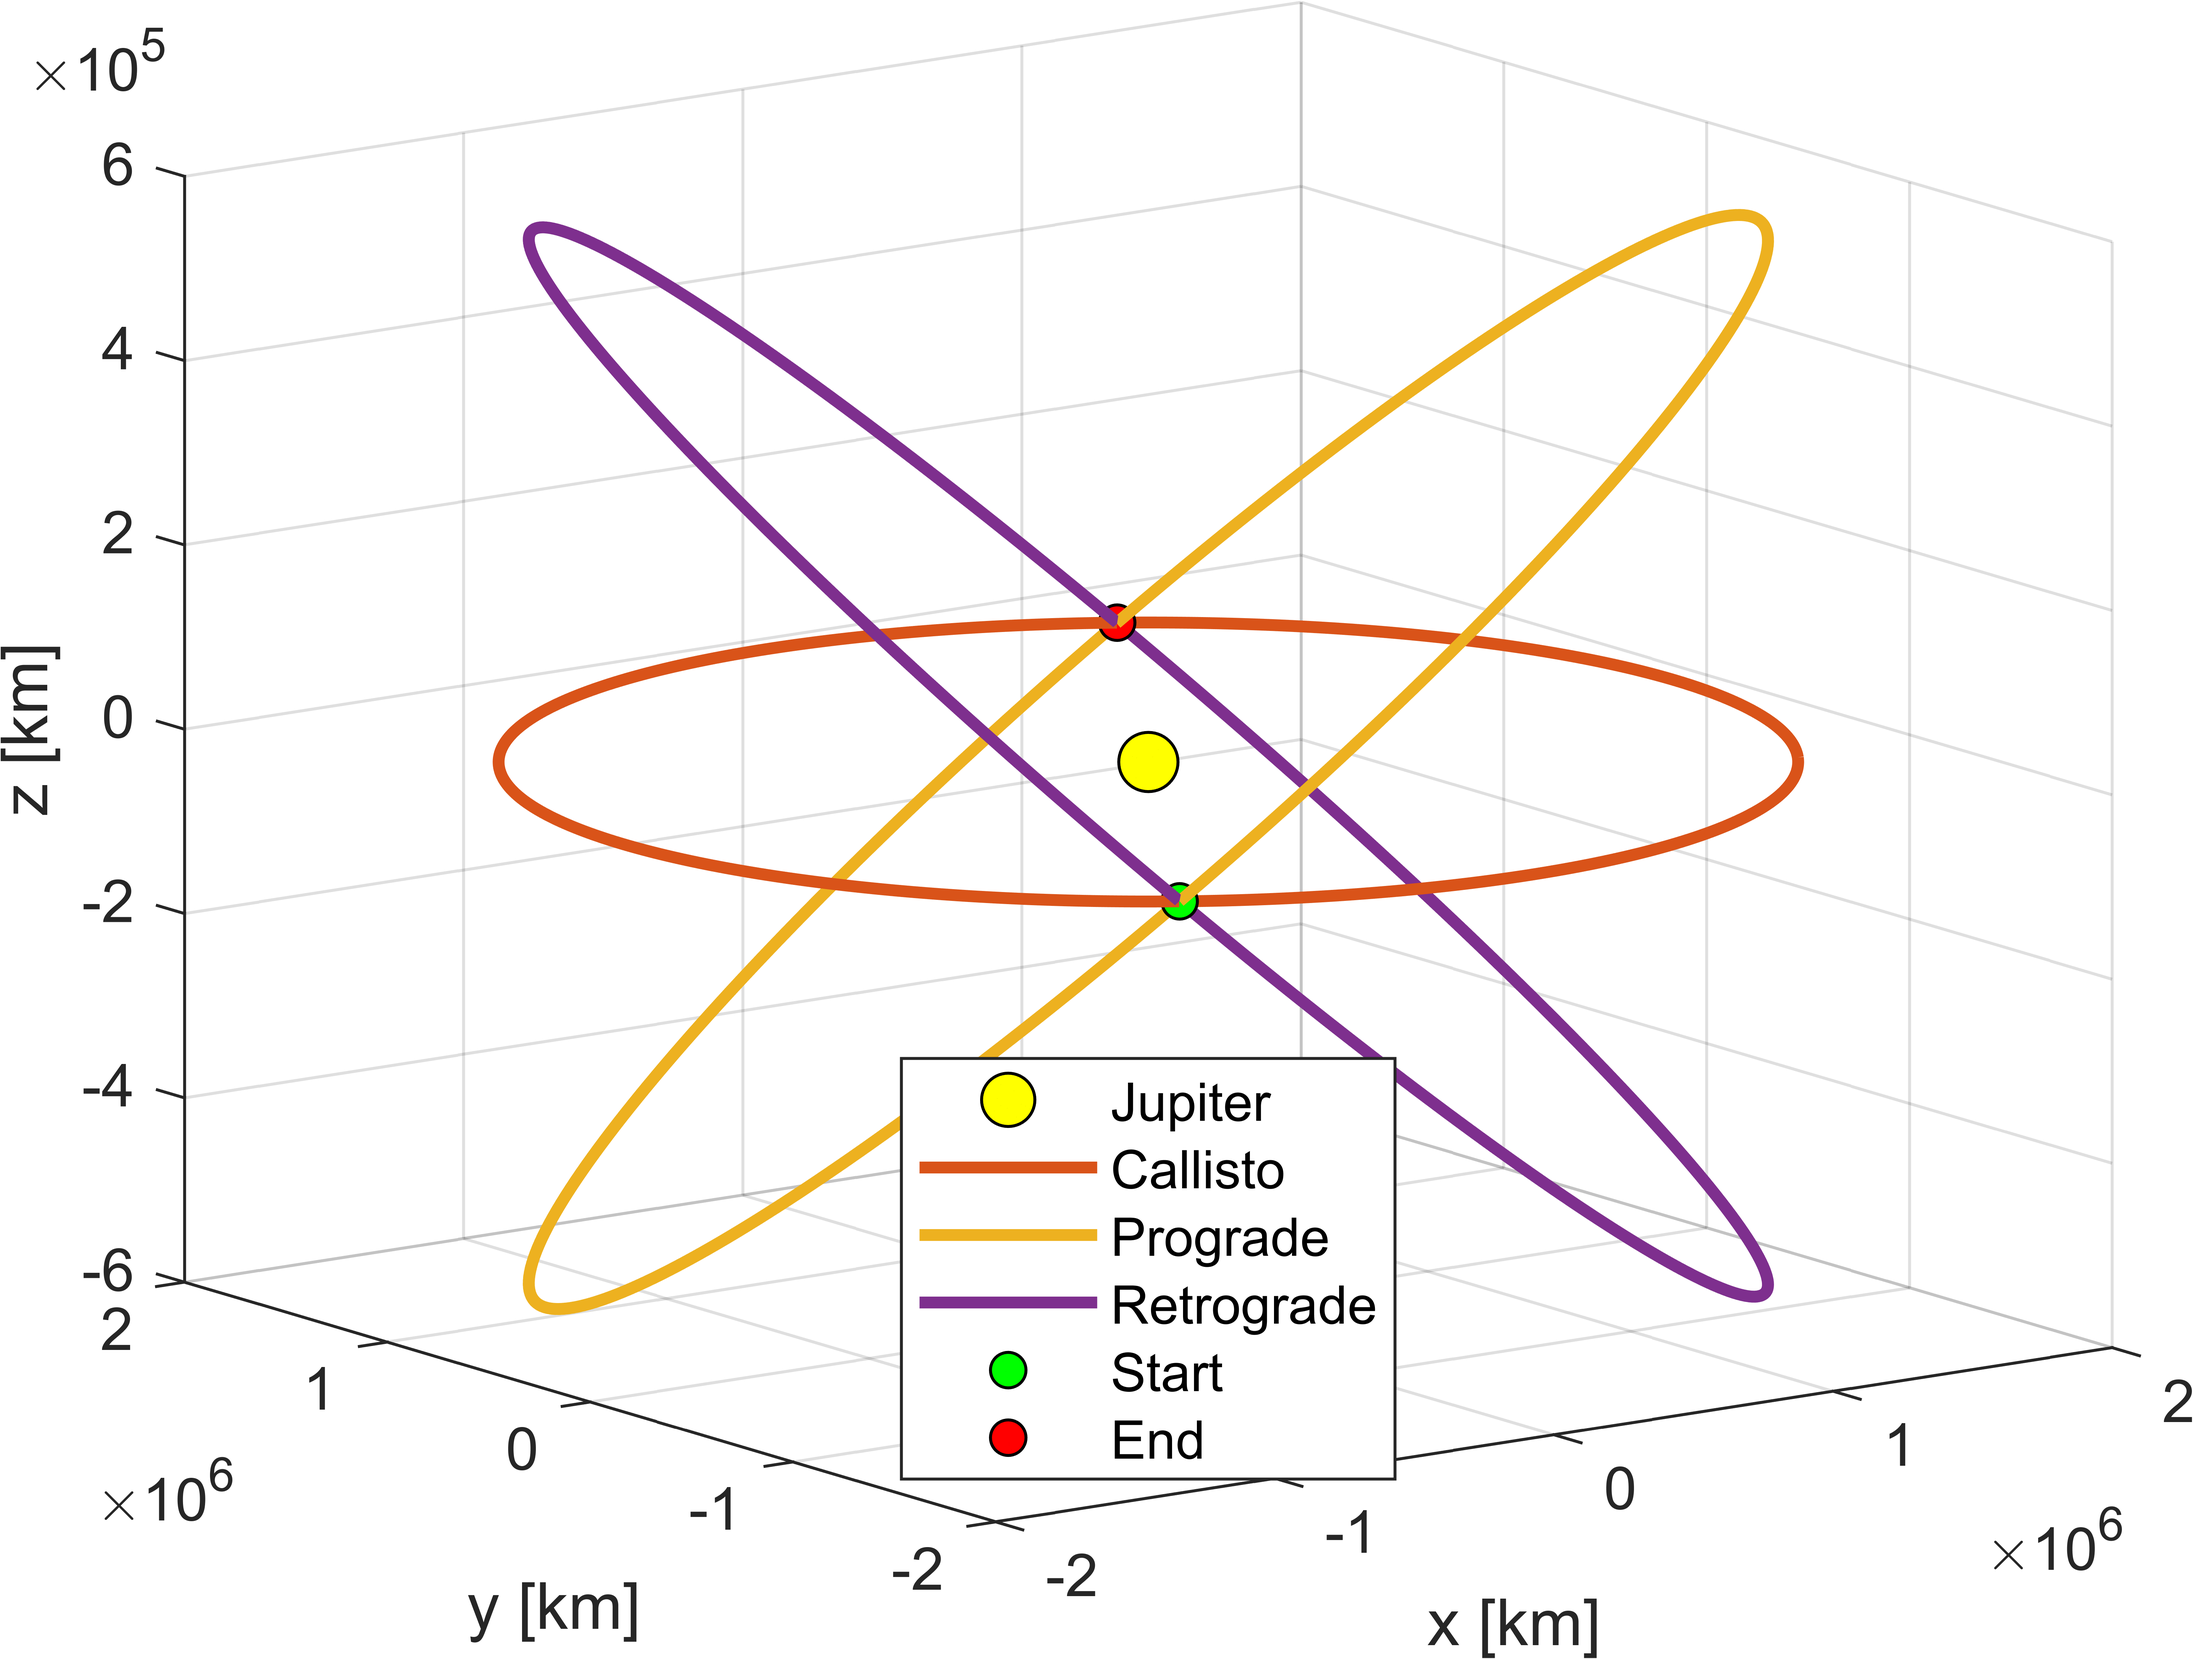
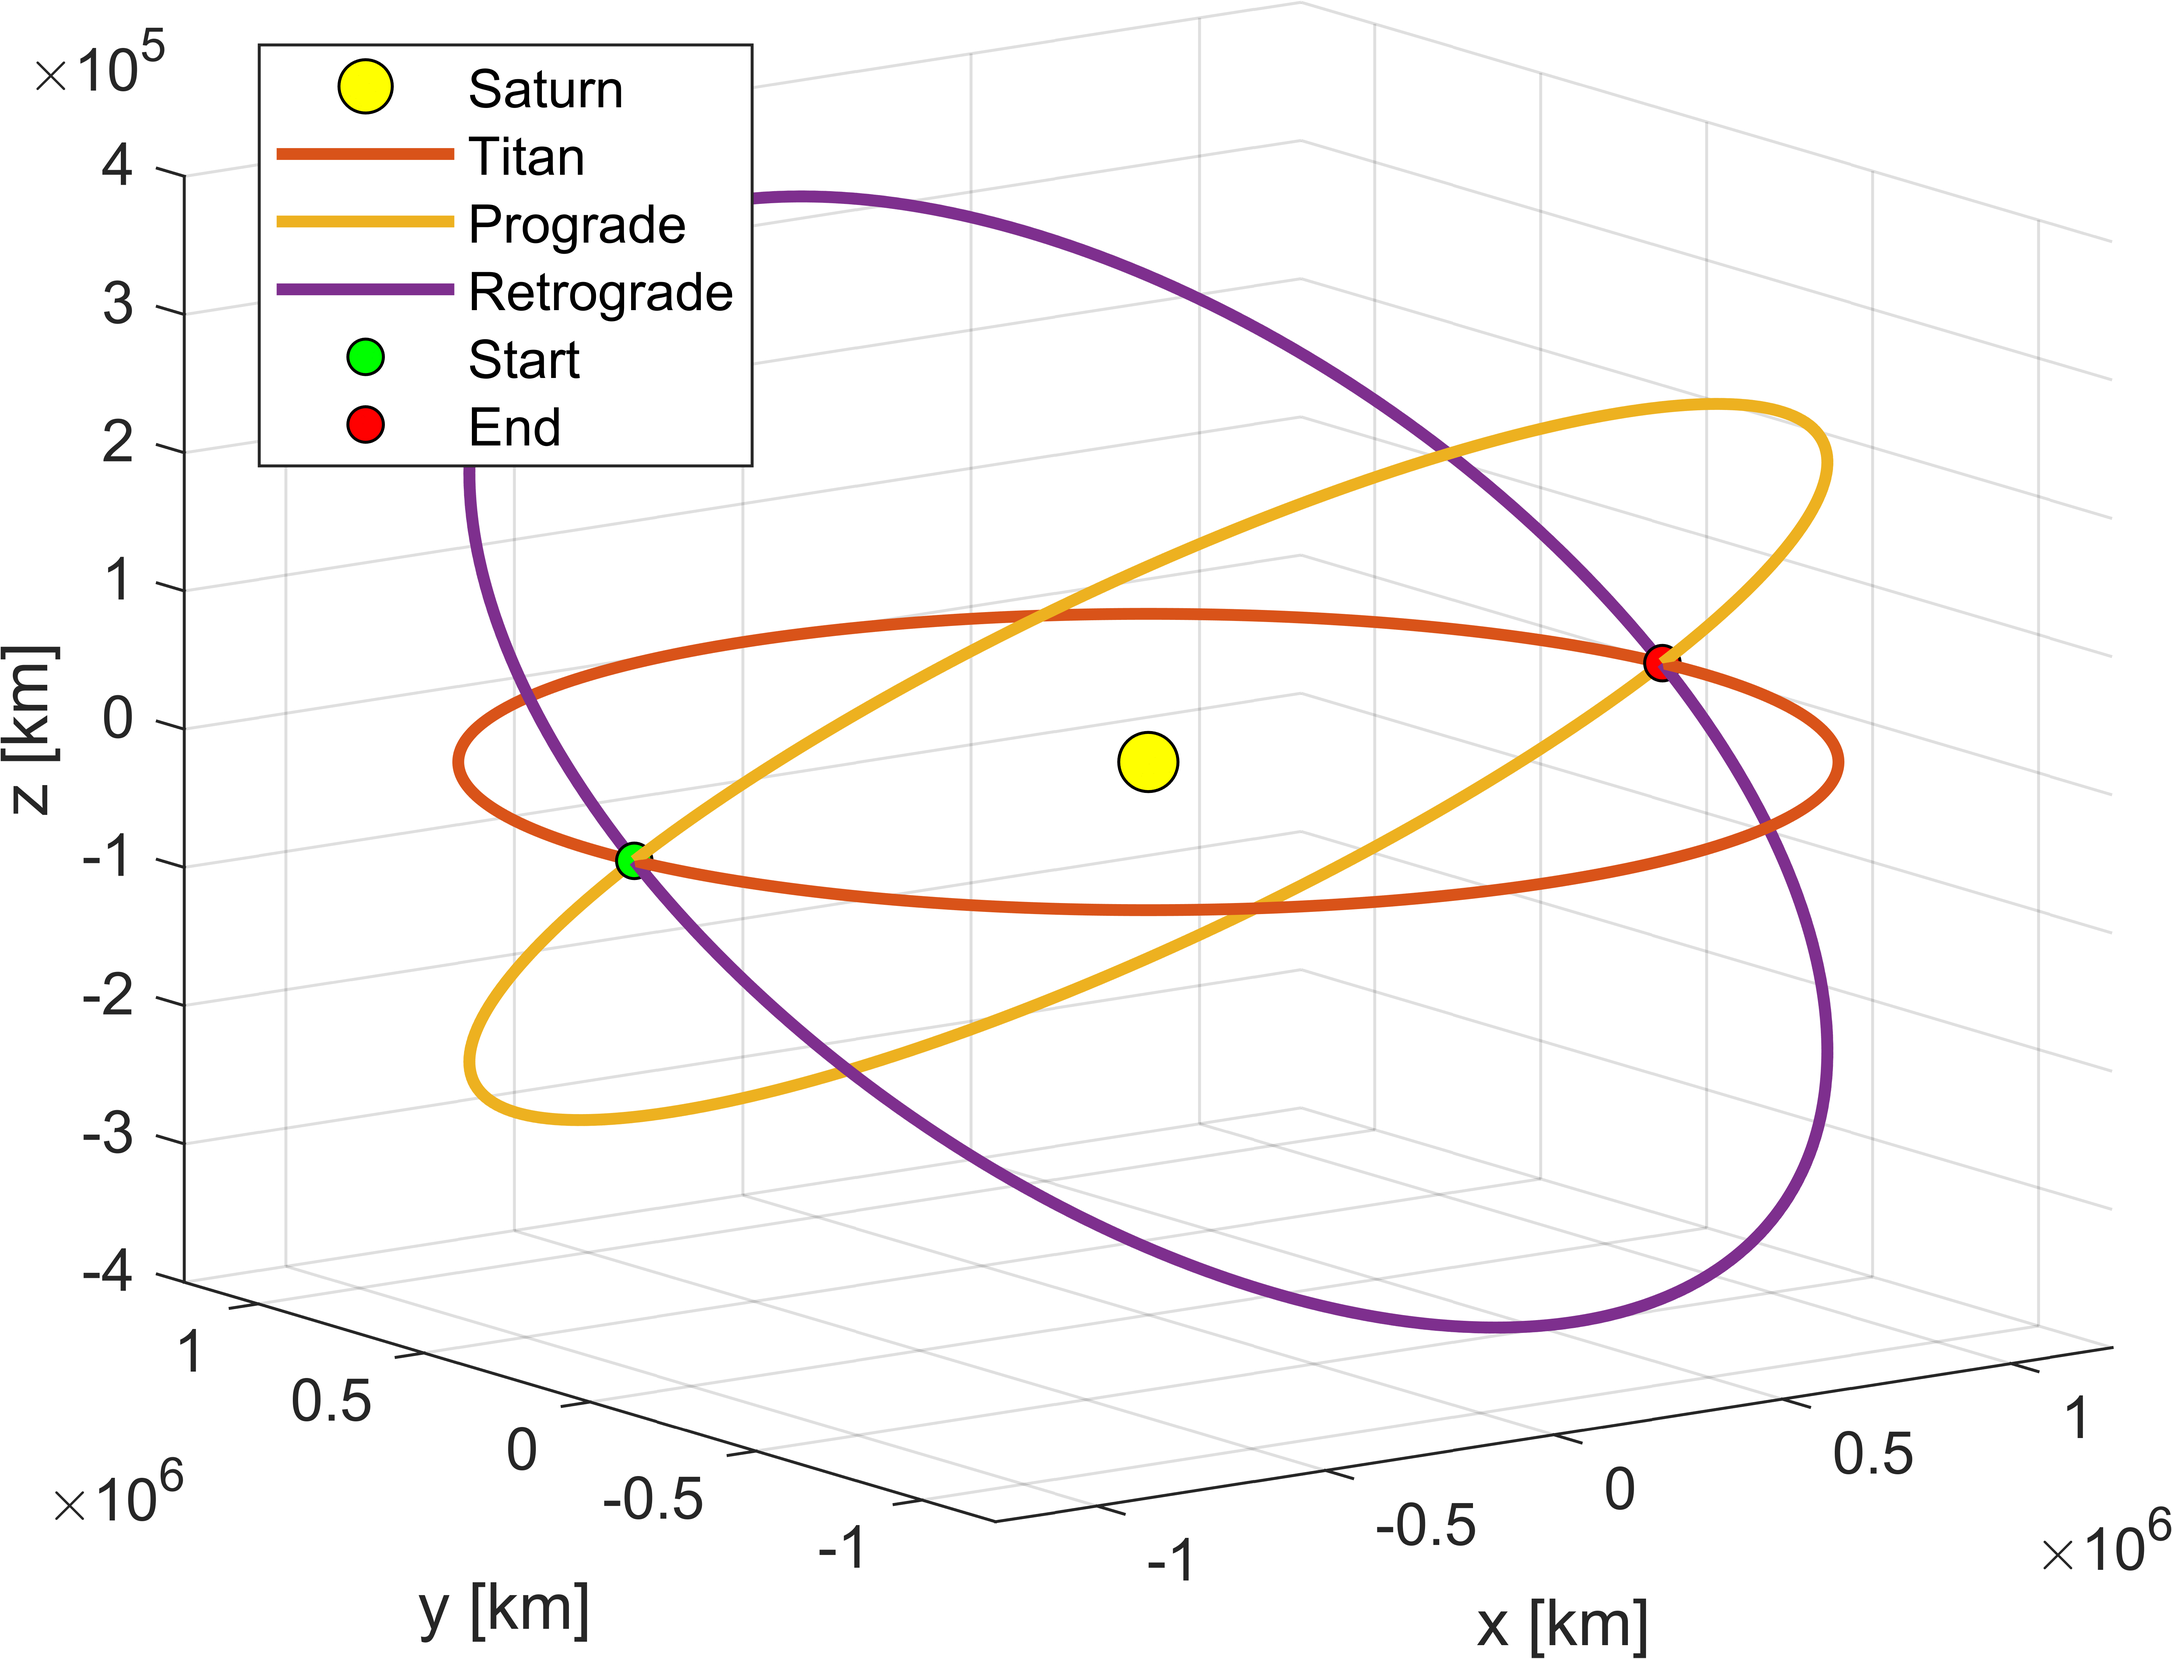
update readme and transfers images

diff --git a/st0_1_different_transfer.m b/st0_1_different_transfer.m
@@ -4,11 +4,11 @@ addpath(genpath([pwd '/AUTOMATE']));
 
 %%
 
-idcentral = 5;                            % --> central body (Jupiter in this case)
-idmoon    = 4;                            % --> flyby body (Callisto in this case)
+idcentral = 6;                            % --> central body (Saturn in this case)
+idmoon    = 5;                            % --> flyby body (Titan in this case)
 muCentral = constants(idcentral, idmoon); % --> gravitational constant of the central body [km3/s2]
 epoch     = 0;                            % --> initial epoch [MJD2000]
-vinf_norm = 2.5;                          % --> infinity velocity [km/s]
+vinf_norm = 1.5;                          % --> infinity velocity [km/s]
 
 %% --> Test full-resonant transfer
 
@@ -108,8 +108,8 @@ side                 = -1; % --> 1.ABOVE, -1.BELOW
 fig1 = plotMoons(idmoon, idcentral);
 axis normal;
 
-plot3( yy(:,1), yy(:,2), yy(:,3), 'LineWidth', 2, 'DisplayName', 'Prograde' );
-plot3( yy2(:,1), yy2(:,2), yy2(:,3), 'LineWidth', 2, 'DisplayName', 'Retrograde' );
+plot3( yy(:,1), yy(:,2), yy(:,3), 'LineWidth', 2, 'DisplayName', 'above' );
+plot3( yy2(:,1), yy2(:,2), yy2(:,3), 'LineWidth', 2, 'DisplayName', 'below' );
 
 plot3( yy(1,1), yy(1,2), yy(1,3), 'o',...
     'MarkerEdgeColor', 'Black',...

diff --git a/README.md b/README.md
@@ -37,13 +37,13 @@ Python implementation requires less strict requirements (especially on RAM), but
 To use the repository, one finds different test scripts. These are listed here:
 
 1. Test script 1: [st0_tisserand_graph.m](https://github.com/andreabellome/saturn_moon_tours/blob/main/st0_plot_tisserand_graph.m), to plot TG for Saturn system. Refer to [this section](#Section_1).
+2. Test script 1.1: [st0_1_different_transfer.m](https://github.com/andreabellome/saturn_moon_tours/blob/main/st0_1_different_transfer.m), to generate and plot different transfers' options. Refer to [this section](#Section_1_1).
 2. Test script 2: [st1_database_generation.m](https://github.com/andreabellome/saturn_moon_tours/blob/main/st1_database_generation.m) to generate databases of VILTs and intersections on TG. Refer to [this section](#Section_2).
 3. Test script 3: [st2_modp_exploration.m](https://github.com/andreabellome/saturn_moon_tours/blob/main/st2_modp_exploration.m) to perform a full exploration with DP. Refer to [this section](#Section_3).
 
 More details are provided in the following sections.
 
 <a id="Section_1"></a> 
-
 ### Test script 1: Plot a Tisserand graph for Saturn system
 
 This simple test script is used to plot a Tisserand graph for Saturn system. The reference script is [st0_tisserand_graph.m](https://github.com/andreabellome/saturn_moon_tours/blob/main/st0_plot_tisserand_graph.m).
@@ -107,8 +107,152 @@ An example with Titan is provided. Legend shows the plotted resonant loci at Tit
   <img src="./AUTOMATE/Images/tisserand_graph_saturn_single_moon_resonances.png" alt="Pareto-front" width="500"/>
 </p>
 
-<a id="Section_2"></a> 
+<a id="Section_1_1"></a> 
+### Test script 1.1: Generate and plot different transfers
 
+The reference script described here is: [st0_1_different_transfer.m](https://github.com/andreabellome/saturn_moon_tours/blob/main/st0_1_different_transfer.m). This is used to generate different transfer options with the same moon and to plot the results. The different transfers are found in the folder [/AUTOMATE/Tisserand/Tisserand graphs/Transfers](https://github.com/andreabellome/saturn_moon_tours/tree/main/AUTOMATE/Tisserand/Tisserand%20graphs/Transfers).
+
+This functionality will be used in the [next section](#Section_2) to generate database of transfers for different moons and different infinity velocities. The different transfers implemented in AUTOMATE are:
+<ul>
+  <li>Full-resonant transfers.</li>
+  <li>Pseudo-resonant transfers.</li>
+  <li>Back-flip transfers (or 180-deg transfers).</li>
+  <li>VILTs.</li>
+</ul>
+
+It all starts by clearing the workspace and including the required libraries:
+
+```matlab
+%% --> select the INPUT
+
+clear all; close all; clc; format long g;
+addpath(genpath([pwd '/AUTOMATE']));
+```
+
+One then selects the central body, the fly-by body and the initial infinity velocity
+
+```matlab
+idcentral = 6;                            % --> central body (Saturn in this case)
+idmoon    = 5;                            % --> flyby body (Titan in this case)
+muCentral = constants(idcentral, idmoon); % --> gravitational constant of the central body [km3/s2]
+epoch     = 0;                            % --> initial epoch [MJD2000]
+vinf_norm = 1.5;                          % --> infinity velocity [km/s]
+```
+
+#### Full-resonant transfers
+
+The first type of transfer is the full-resonant one. In this case, one needs to select a resonant ratio N:M (N and M are the integer number of moon and spacecraft revolutions, respectively), and a crank angle between 0 to 2pi, that defines the type of encounter. In this case, 180 degrees are selected. The function [wrap_fullResTransf](https://github.com/andreabellome/saturn_moon_tours/blob/main/AUTOMATE/Tisserand/Tisserand%20graphs/Transfers/FullResonant%20Transfers/wrap_fullResTransf.m) is then used to find infinity velocity, pump and crank angles at the beginning and at the end of the transfer, as well as the time of flight.
+
+```matlab
+%% --> Test full-resonant transfer
+
+% --> resonant ratio
+N = 2; % --> moon revs.
+M = 1; % --> SC revs.
+
+crank = pi; % --> crank angle
+
+[vinf1, alpha1, crank1, vinf2, alpha2, crank2, tof] = ...   
+    wrap_fullResTransf(N, M, vinf_norm, crank, idmoon, idcentral);                           % --> find the full-resonant transfer
+```
+
+Corresponding cartesian elements and propagated trajectory are obtained and plotted.
+
+```matlab
+[~, rr1, vv1] = vinfAlphaCrank_to_VinfCART(vinf1, alpha1, crank1, epoch, idmoon, idcentral); % --> find cartesian elements
+[~, yy]       = propagateKepler_tof(rr1, vv1, tof, muCentral);                               % --> propagate
+
+% --> plot moon's orbit and add the trajectory
+fig = plotMoons(idmoon, idcentral);
+
+plot3( yy(:,1), yy(:,2), yy(:,3), 'LineWidth', 2, 'DisplayName', 'Prograde' );
+
+plot3( yy(1,1), yy(1,2), yy(1,3), 'o',...
+    'MarkerEdgeColor', 'Black',...
+    'MarkerFaceColor', 'Green',...
+    'DisplayName', 'Fly-by' );
+
+legend( 'Location', 'Best' );
+
+name = [pwd '/AUTOMATE/Images/transfer1_fullRes.png'];
+exportgraphics(fig, name, 'Resolution', 1200);
+```
+
+Results are saved in the folder [/AUTOMATE/Images/](https://github.com/andreabellome/saturn_moon_tours/tree/main/AUTOMATE/Images) with the name specified by the user. The trajectory is reported below.
+
+<p align="center">
+  <img src="./AUTOMATE/Images/transfer1_fullRes.png" alt="full-resonant" width="500"/>
+</p>
+
+#### Pseudo-resonant transfers
+
+The second type of transfer is the pseudo-resonant one. Again, one selects a resonant ratio N:M and computes the two options available: 1) is for an inbound-outbound transfer (```type=18```), 2) is for an outbound-inbound transfer (```type=81```).
+
+```matlab
+%% --> Test pseudo-resonant transfer
+
+% --> resonant ratio
+N = 2; % --> moon revs.
+M = 1; % --> SC revs.
+
+type = 18; % --> Inbound-Outbound
+[vinf1, alpha1, crank1, vinf2, alpha2, crank2, tof] = ...
+    wrap_pseudoResTransf( type, N, M, vinf_norm, idmoon, idcentral, +1 );                    % --> find the pseudo-resonant transfer
+[~, rr1, vv1] = vinfAlphaCrank_to_VinfCART(vinf1, alpha1, crank1, epoch, idmoon, idcentral); % --> find cartesian elements
+[~, yy]       = propagateKepler_tof(rr1, vv1, tof, muCentral);                               % --> propagate
+
+type = 81; % --> Outbound-Inbound
+[vinf1, alpha1, crank1, vinf2, alpha2, crank2, tof] = ...
+    wrap_pseudoResTransf( type, N, M, vinf_norm, idmoon, idcentral, +1 );                    % --> find the pseudo-resonant transfer
+[~, rr1, vv1] = vinfAlphaCrank_to_VinfCART(vinf1, alpha1, crank1, epoch, idmoon, idcentral); % --> find cartesian elements
+[~, yy2]       = propagateKepler_tof(rr1, vv1, tof, muCentral);                              % --> propagate
+```
+
+The corresponding trajectories are then plotted and saved in [/AUTOMATE/Images/](https://github.com/andreabellome/saturn_moon_tours/tree/main/AUTOMATE/Images) with the name specified by the user.
+
+```matlab
+% --> plot moon's orbit and add the trajectory
+fig100 = plotMoons(idmoon, idcentral);
+axis normal;
+
+nameRes = [ num2str(N) ':' num2str(M) ];
+plot3( yy(:,1), yy(:,2), yy(:,3), 'LineWidth', 2, 'DisplayName', [nameRes '^+'] );
+plot3( yy2(:,1), yy2(:,2), yy2(:,3), 'LineWidth', 2, 'DisplayName', [nameRes '^-'] );
+
+plot3( yy(1,1), yy(1,2), yy(1,3), 'o',...
+    'MarkerEdgeColor', 'Black',...
+    'MarkerFaceColor', 'Green',...
+    'DisplayName', 'Start' );
+
+plot3( yy(end,1), yy(end,2), yy(end,3), 'o',...
+    'MarkerEdgeColor', 'Black',...
+    'MarkerFaceColor', 'Red',...
+    'DisplayName', 'End' );
+
+plot3( yy2(end,1), yy2(end,2), yy2(end,3), 'o',...
+    'MarkerEdgeColor', 'Black',...
+    'MarkerFaceColor', 'Red',...
+    'HandleVisibility', 'Off' );
+
+legend( 'Location', 'Best' );
+
+name = [pwd '/AUTOMATE/Images/transfer4_pseudoRes_2_1.png'];
+exportgraphics(fig100, name, 'Resolution', 1200);
+```
+
+The trajectory is reported below.
+
+<p align="center">
+  <img src="./AUTOMATE/Images/transfer4_pseudoRes_2_1.png" alt="full-resonant" width="500"/>
+</p>
+
+#### Back-flip transfers
+
+The third type of transfer is the back-flip one. This is not explicitly used in the next [section](#Section_2), as it is only out-of-plane.
+
+
+
+<a id="Section_2"></a> 
 ### Test script 2: Generating databases of VILTs and intersections on Tisserand graph
 
 The reference script described here is: [st1_database_generation.m](https://github.com/andreabellome/saturn_moon_tours/blob/main/st1_database_generation.m). This is used to generate a database of VILTs and intersections on TG for Saturn sytem.
@@ -237,7 +381,6 @@ save -v7.3 wksp_test_cleaned_noOp
 With the given options and the recommended system requirements, the overall computational time should be **11.7 minutes**. One is now ready to launch the next test case. 
 
 <a id="Section_3"></a> 
-
 ### Test script 3: Full exploration of Tisserand graph
 
 The tours in Saturn system are assumed to be performed one moon at a time. This is why the following script [st2_modp_exploration.m](https://github.com/andreabellome/saturn_moon_tours/blob/main/st2_modp_exploration.m). is divided in different moon phases.
